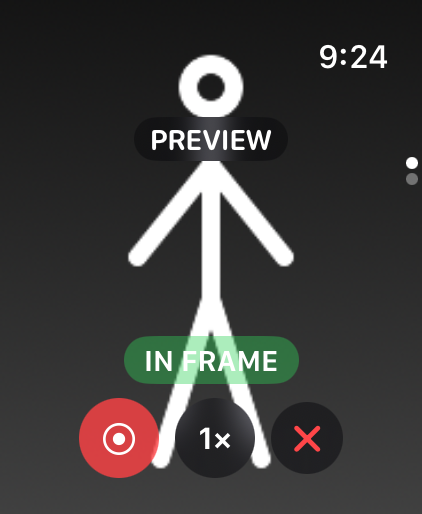
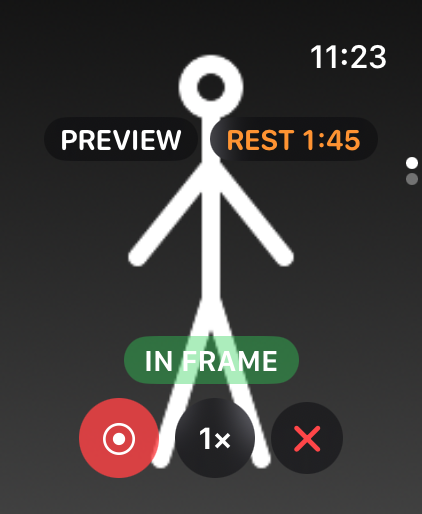
Rest is the big number on the wrist between sets, and rides along in Preview (refs #91)
Igor picked 91B on the UX board of 2026-09-18. Inside a workout, while a rest is counting, the
head of the workout page is "REST · 1:30" over the rest, large, white until the rest length and
orange after, with the session clock small and green beside the heart rate; before the first set,
during a set and while ending it is WORKOUT over the session clock as before. Preview shows a
"REST 1:45" chip beside PREVIEW. The rest is story 046's timer; watch only, no wire change.

Verified on the watch simulator (just watch-screens): viewfinder, workout, and the new
workoutStart state that keeps the clock head in the rung. Story 050 and the control inventory.

Changed region(s): [[0.1232, 0.2179, 0.8626, 0.3113], [0.7393, 0.0623, 0.8318, 0.1556], [0.8626, 0.0934, 0.9242, 0.1556]]

diff --git a/ExerciseAnalyzerWatch/WatchContentView.swift b/ExerciseAnalyzerWatch/WatchContentView.swift
@@ -89,7 +89,7 @@ struct WatchContentView: View {
               Label("Preview", systemImage: "camera.fill").frame(maxWidth: .infinity)
             }
             .disabled(!phone.reachable)
-            restStatus
+            if !workout.running { restStatus }  // inside a workout the head carries the rest (050)
             restPicker
             exercisePicker
           }
@@ -109,19 +109,34 @@ struct WatchContentView: View {
   }
 
   /// The workout page's head (048): the session clock ticking by itself, the heart rate, the sets so far.
+  /// Between sets the head flips (050): the rest is the number acted on, so it is the large one, white until the
+  /// rest length and orange after, and the session clock goes small and green beside the heart rate.
   private var workoutHeader: some View {
-    VStack(spacing: 2) {
-      Text(workout.phase == .ending ? "ENDING…" : "WORKOUT")
-        .font(.caption2.weight(.semibold)).kerning(1).foregroundStyle(.green)
-      if let startedAt = workout.startedAt {
-        Text(startedAt, style: .timer)
+    let resting = workout.phase == .ending ? nil : phone.rest.restEnded
+    return VStack(spacing: 2) {
+      if let resting {
+        Text("REST · \(Self.duration(Double(phone.rest.length)))")
+          .font(.caption2.weight(.semibold)).kerning(1).foregroundStyle(.orange)
+        Text(resting, style: .timer)
           .font(.system(size: 40, weight: .bold, design: .rounded)).monospacedDigit()
+          .foregroundStyle(restIsOver(resting) ? .orange : .primary)
+      } else {
+        Text(workout.phase == .ending ? "ENDING…" : "WORKOUT")
+          .font(.caption2.weight(.semibold)).kerning(1).foregroundStyle(.green)
+        if let startedAt = workout.startedAt {
+          Text(startedAt, style: .timer)
+            .font(.system(size: 40, weight: .bold, design: .rounded)).monospacedDigit()
+        }
       }
       HStack(spacing: 4) {
         Image(systemName: "heart.fill").font(.caption).foregroundStyle(.red)
         Text(workout.heartRate.map(String.init) ?? "--")
           .font(.title3.bold()).monospacedDigit()
         Text("BPM").font(.caption2).foregroundStyle(.secondary)
+        if resting != nil, let startedAt = workout.startedAt {
+          Text("·").foregroundStyle(.secondary)
+          Text(startedAt, style: .timer).font(.title3.bold()).monospacedDigit().foregroundStyle(.green)
+        }
       }
       .accessibilityLabel("Heart rate \(workout.heartRate.map(String.init) ?? "unknown")")
       Text("\(workout.sets) set\(workout.sets == 1 ? "" : "s") · \(workout.reps) reps")
@@ -202,14 +217,22 @@ struct WatchContentView: View {
   private var recordingOverlays: some View {
       VStack(spacing: 6) {
         if status.viewfinder {
-          // Framing, not recording: one chip, no count, no time (047).
-          HStack {
-            Spacer()
+          // Framing, not recording: no count, no time (047); the rest keeps counting beside the chip (050).
+          HStack(spacing: 6) {
+            Spacer(minLength: 0)
             Text("PREVIEW")
               .font(.system(size: 15, weight: .semibold, design: .rounded))
               .padding(.horizontal, 8).padding(.vertical, 2)
               .background(.ultraThinMaterial, in: Capsule())
-            Spacer()
+            if let restEnded = phone.rest.restEnded {
+              (Text("REST ") + Text(restEnded, style: .timer))
+                .font(.system(size: 15, weight: .semibold, design: .rounded)).monospacedDigit()
+                .foregroundStyle(restIsOver(restEnded) ? .orange : .primary)
+                .lineLimit(1).fixedSize()
+                .padding(.horizontal, 8).padding(.vertical, 2)
+                .background(.ultraThinMaterial, in: Capsule())
+            }
+            Spacer(minLength: 0)
           }
           .padding(.horizontal, 8)
           .padding(.top, 2)
@@ -362,9 +385,13 @@ struct WatchContentView: View {
     if let restEnded = phone.rest.restEnded {
       (Text("Rest ") + Text(restEnded, style: .timer))
         .font(.headline).monospacedDigit()
-        .foregroundStyle(
-          Date().timeIntervalSince(restEnded) >= Double(phone.rest.length) ? .orange : .primary)
+        .foregroundStyle(restIsOver(restEnded) ? .orange : .primary)
     }
+  }
+
+  /// Past the rest length; read off the 2 s clock so the colour turns without a status arriving.
+  private func restIsOver(_ restEnded: Date) -> Bool {
+    now.timeIntervalSince(restEnded) >= Double(phone.rest.length)
   }
 
   /// Rest length between sets, a watch setting (story 046).

diff --git a/ExerciseAnalyzerWatch/WatchScreenshotState.swift b/ExerciseAnalyzerWatch/WatchScreenshotState.swift
@@ -12,10 +12,13 @@ enum WatchScreenshotState: String, CaseIterable {
   /// A workout running on the wrist (story 048): the workout page, its End and Discard buttons (the page
   /// scrolled to its bottom), and the recording page with the heart-rate chip.
   case workout, workoutEnd, workoutRecording
+  /// A workout before its first set (050): the head is the session clock, as it was before the rest took it over.
+  case workoutStart
 
   /// The fixed workout the controller presents: 42:10 in, 128 bpm (141 while a set runs); nil for no workout.
   var workout: (elapsed: TimeInterval, heartRate: Int)? {
     switch self {
+    case .workoutStart: return (190, 96)
     case .workout, .workoutEnd: return (2530, 128)
     case .workoutRecording: return (2530, 141)
     default: return nil
@@ -82,6 +85,8 @@ enum WatchScreenshotState: String, CaseIterable {
       status.lastSet = LastSet(
         reps: 9, exercise: "Kettlebell Swing", seconds: 24, at: Date().timeIntervalSince1970 - 95)
       return (status, true, nil)
+    case .workoutStart:
+      return (.idle, true, nil)
     case .workoutRecording:
       let status = WatchStatus(
         recording: true,
@@ -91,8 +96,16 @@ enum WatchScreenshotState: String, CaseIterable {
     }
   }
 
-  /// The done state's rest started 35 s ago (story 046); every other state counts nothing.
-  var restEndedAt: Date? { self == .done ? Date().addingTimeInterval(-35) : nil }
+  /// The done state's rest started 35 s ago (story 046); the workout's with its last set, 95 s ago, and the
+  /// Preview's 102 s ago, both past a 90 s rest length and so orange (050); every other state counts nothing.
+  var restEndedAt: Date? {
+    switch self {
+    case .done: return Date().addingTimeInterval(-35)
+    case .workout, .workoutEnd: return Date().addingTimeInterval(-95)
+    case .viewfinder: return Date().addingTimeInterval(-102)
+    default: return nil
+    }
+  }
 }
 
 /// Stand-in camera picture: a dark gradient with a white lifter glyph, so the picture page never reads

diff --git a/ExerciseAnalyzerWatch/WorkoutController.swift b/ExerciseAnalyzerWatch/WorkoutController.swift
@@ -56,6 +56,7 @@ final class WorkoutController: NSObject, ObservableObject {
     heartRate = workout.heartRate
     heartRateAverage = 128
     heartRateMax = 156
+    guard screenshot != .workoutStart else { return }  // before the first set: 0 sets · 0 reps
     sets = 6
     reps = 47
   }

diff --git a/docs/stories/05-watch.md b/docs/stories/05-watch.md
@@ -16,10 +16,11 @@ lock-screen control (044) are not watch-app states and are not in the table.
 | disconnected | no-phone art, "Not connected…" with the reconnect note, "Last heard Ns ago"; "Last seen recording: N reps" when the last status had the recorder rolling | Start workout (green), Retry | 018, 048 |
 | background | phone-in-background art, the unlock-and-open instruction | Start workout (green), "Send a reminder to the phone" (no Record: it would die silently) | 018, 048 |
 | idle | "Phone ready", exercise picker, rest length picker, the rest count while resting, the last-set line (or "Analyzing…" while the pass runs) | Start workout (green), Record (red), Preview (below it) | 017, 041, 045, 046, 047, 048 |
-| workout | WORKOUT in green over the session clock (counting up by itself), "♥ 128 BPM", "6 sets · 47 reps", then the last-set line, the rest count and the pickers as idle; no figure art, no Start workout | Record (red), Preview, the pickers; End workout and Discard below the pickers (the workoutEnd shot) | 048 |
+| workoutStart | a workout before its first set: WORKOUT in green over the session clock (counting up by itself), "♥ 96 BPM", "0 sets · 0 reps"; no figure art, no Start workout | Record (red), Preview, the pickers; End workout and Discard below the pickers | 048 |
+| workout | between sets the head is the rest: "REST · 1:30" in orange over the rest count, large, white until the rest length and orange after; then "♥ 128 BPM · 42:13" with the session clock small and green, "6 sets · 47 reps", the last-set line and the pickers as idle; no second rest line | Record (red), Preview, the pickers; End workout and Discard below the pickers (the workoutEnd shot) | 048, 050 |
 | workoutEnd | the bottom of the workout page: the exercise picker's tail, then "End writes one workout to Health" under the buttons | End workout (green), Discard (red, asks first) | 048 |
 | workoutRecording | as recording, with a "♥ 141" chip between the count and the time | as recording | 048 |
-| viewfinder (Preview) | the picture filling the face, a PREVIEW chip, the in-frame capsule | Record (red) · Camera · Cancel; no Pause, no Done | 047 |
+| viewfinder (Preview) | the picture filling the face, a PREVIEW chip, beside it a "REST 1:45" chip while a rest is counting (orange past the rest length), both whole inside the face, the in-frame capsule | Record (red) · Camera · Cancel; no Pause, no Done | 047, 050 |
 | live | the picture filling the face, small rep and time chips right under the clock line, the green "IN FRAME" capsule above the row; chips, capsule and buttons whole inside the face and covering as little of the picture as 40 pt targets allow | Pause · Camera · Done · Cancel along the bottom edge, translucent glass except Done (green); second page: Cancel, the watch-mode toggle | 016, 017, 042 |
 | recording | as live, with the count (6) and the time (0:42) and a red "FEET CUT OFF" capsule when cut off | as live | 016, 017, 042 |
 | paused | "PAUSED · FEET CUT OFF" capsule, the count and the time frozen, the picture still refreshing | orange Resume · Camera · Done · Cancel; second page: Cancel | 040 |
@@ -465,7 +466,7 @@ the first frame (story 001).
 ### User Story 050:
 
 - **Summary:** Rest time stays on the wrist in Preview and beside the workout clock
-- **Status:** not implemented ([#91](https://github.com/idvorkin/exercise-analyzer/issues/91))
+- **Status:** implemented for [#91](https://github.com/idvorkin/exercise-analyzer/issues/91); verified on the watch simulator (`just watch-screens`: the viewfinder, workout and workoutStart states); the wrist rung is Igor's
 - **Why:** Igor, 2026-09-18, from the gym: "When in watch preview keep time since last rep on small. On watch. Include time since last rep not just total work out time."
 
 #### Use Case:
@@ -482,9 +483,14 @@ the first frame (story 001).
 - **Scenario:** Rest on the workout page
 - **Given:** a workout is running and a set ended 1:42 ago
 - **When:** I look at the workout page
-- **Then:** the rest and the workout clock are both in the head, without scrolling
+- **Then:** the head reads "REST · 1:30" over "1:42", large, orange because it is past the rest length (white before it), and under it "♥ 128 BPM · 42:13" with the workout clock small and green; there is no second rest line further down
 
-- **Notes:** The rest is the timer of story 046, which starts at Done, a few seconds after the last rep; no second clock. Open (board of 2026-09-18, 91A or 91B): whether the rest becomes the large number between sets with the workout clock small beside the heart rate, or joins the heart-rate line small.
+- **Scenario:** No rest, no flip
+- **Given:** a workout is running and no set has ended yet, or a set is recording, or the workout is ending
+- **When:** I look at the workout page
+- **Then:** the head is WORKOUT over the session clock, as in story 048
+
+- **Notes:** The rest is the timer of story 046, which starts at Done, a few seconds after the last rep; no second clock, and watch only. Igor picked 91B on the board of 2026-09-18 ("agreed"): between sets the rest is the number acted on, so it is the large one; 91A kept it small on the heart-rate line. Outside a workout the idle page keeps its "Rest 1:42" line under the buttons (046).
 
 - **Issues:** [#91](https://github.com/idvorkin/exercise-analyzer/issues/91)
 

diff --git a/docs/screenshots/README.md b/docs/screenshots/README.md
@@ -27,7 +27,7 @@ the control inventory in [../stories/05-watch.md](../stories/05-watch.md).
 
 | Idle | Preview |
 |---|---|
-| ![Watch idle: Phone ready with Record and Preview](watch-idle.png) | ![Watch preview: the picture with the in-frame capsule and Record, Camera, Cancel, nothing recorded yet](watch-preview.png) |
+| ![Watch idle: Phone ready with Record and Preview](watch-idle.png) | ![Watch preview: the picture with the PREVIEW chip, the rest still counting beside it, the in-frame capsule and Record, Camera, Cancel, nothing recorded yet](watch-preview.png) |
 
 | Live | Recording |
 |---|---|
